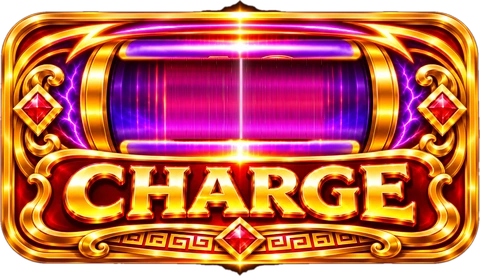
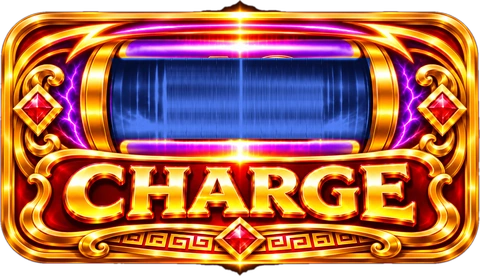
White version: stopped SUPER WILD in front of neighbours; CHARGE screen dark blue; no rings behind letter wins; no lights on the counter boards; TOTAL in the chips' gold lettering, bigger

Changed region(s): [[0.2188, 0.2029, 0.7812, 0.5217]]

diff --git a/white/src/game.js b/white/src/game.js
@@ -966,7 +966,8 @@
       container: c, masks: [[c, m]], onExit: () => fireCurtain(r),
       make: () => new SymView(c, REEL_CX[r]),
       // white (user 2026-11-13): a stopped SUPER WILD in the top row is lifted over the frame (whole horns); back on the next spin
-      topLift: function (on) { this.views.forEach((v, i) => { const p = on && i === 1 && v.id === "super_wild" ? swTopL : c; if (v.c.parent !== p) p.addChild(v.c); }); },
+      // (user 2026-11-13 "bull should be in front"): any stopped SUPER WILD is raised over its neighbours in the reel
+      topLift: function (on) { this.views.forEach((v, i) => { const sw = on && v.id === "super_wild", p = sw && i === 1 ? swTopL : c; if (v.c.parent !== p || sw) p.addChild(v.c); }); },
       rand: () => { const s = Engine.SYMBOLS; const w = Engine.WEIGHTS; let t = 0; const fw = (k) => w[k] + (k === "charge" || k === "super_wild" ? 0 : 2); for (const k of s) t += fw(k); let x = Math.random() * t; for (const k of s) { x -= fw(k); if (x < 0) return k; } return "J"; } });
   });
   const colQ = [];                                   // white (spec): chips queued to slide in next (colPlan)
@@ -1792,7 +1793,11 @@
     Object.defineProperty(accTxt, "text", { configurable: true, get() { return pd.get.call(this); }, set(v) {
       v = String(v); const hx = v.charAt(0) === "x"; pd.set.call(this, hx ? v.slice(1) : v); accX.visible = hx;
       const dw = this.width / (this.scale.x || 1), xw = hx ? accX.width : 0, gap = hx ? -2 : 0, x0 = -(xw + gap + dw) / 2;
-      accX.position.set(x0 + xw, this.y - 2); this.x = x0 + xw + gap + dw / 2; } }); }   // white: parchment, like the count above it
+      accX.position.set(x0 + xw, this.y - 2); this.x = x0 + xw + gap + dw / 2;
+      if (accBT) { accBT.text = v; accBT.position.set(0, this.y + 2); } } }); }
+  // white (user 2026-11-13: "make the 9 bigger and same font as X"): the TOTAL in the chips' own lettering
+  const accBT = new PIXI.BitmapText("x0", { fontName: "gold_digits", fontSize: 62 }); accBT.anchor.set(0.5); accTxt.parent.addChild(accBT);
+  accTxt.renderable = false; accX.renderable = false;   // white: parchment, like the count above it
   function screenUp(on) {
     gsap.killTweensOf(cscreen);
     if (on) { cscreen.visible = true; cscreen.y = CS_HIDE; accum.visible = true; accum.alpha = 1; accum.scale.set(1); accTxt.text = "x0";
@@ -1947,7 +1952,7 @@
       const q = FX.bezier(from, mid, to, p.t); c.position.set(q.x, q.y);
       if (nEmit(40)) topP.emit({ tex: FX.tex.spark, x: q.x, y: q.y, vx: (Math.random() - 0.5) * 90, vy: (Math.random() - 0.5) * 90, s0: 0.35, s1: 0, life: 0.2, tint: 0xffd700 });
     } });
-    impactAt(to, v);
+    SFX.impact(v >= 10);   // white: no light on the counter board (user 2026-11-13)
     const hitK = Math.min(1, Math.log10(Math.max(2, v)) / 2);          // 2x = 0.15 ... 100x+ = 1
     flashScreen(multTint(v), 0.1 + 0.14 * hitK, 0.3);
     gsap.killTweensOf(plaque.scale);
@@ -2111,7 +2116,7 @@
   function badgeIn() {
     if (accum.visible) return;
     accum.visible = true; accum.scale.set(0);
-    gsap.to(accum.scale, { x: 1, y: 1, duration: 0.25, ease: "back.out(2)" }); ringAt(accum.x, accum.y, 0xffd060, 2.2, 0.3);
+    gsap.to(accum.scale, { x: 1, y: 1, duration: 0.25, ease: "back.out(2)" });   // white: no ring on the board
   }
   const accDraw = throttled(() => { accTxt.text = "x" + Math.round(accShown.v); }, TXT_DT), accShown = { v: 0 };
   function accSet(v, pk, esc) {
@@ -2126,7 +2131,7 @@
     gsap.timeline({ onComplete: () => t.destroy() }).fromTo(t.scale, { x: 0.4, y: 0.4 }, { x: 1.1, y: 1.1, duration: 0.3, ease: "back.out(3)" })
       .to(t, { x: to.x, y: to.y, alpha: 0.2, duration: 0.45, ease: "power2.in", delay: 0.35 })
       .to(t.scale, { x: 0.5, y: 0.5, duration: 0.45 }, "<");
-    ringAt(to.x, to.y, 0x9be060, 1.6, 0.4); SFX.nudgeActivate();
+    SFX.nudgeActivate();   // white: no ring on the board
   }
   // "CHARGE n" over the column as a Fortune Choice CHARGE starts its run
   function chargeTag(n) {
@@ -2170,7 +2175,7 @@
         await FX.wait(0.08 * f);
         if (f > 0.55) await streakToBadge(v);
         badgeIn(); acc = capAdd(acc, v); accSet(acc, 1.25 + 0.5 * esc, esc);
-        ringAt(accum.x, accum.y, 0xffd060, 1.4 + esc, 0.3); SFX.impact(lastN || v >= 50); SFX.rise(esc);
+        SFX.impact(lastN || v >= 50); SFX.rise(esc);   // white: no ring on the board
         if (lastN || v >= 50) flashScreen(multTint(v), 0.14, 0.3);
       }
       const el = gsap.globalTimeline.time() - t0;
@@ -3358,7 +3363,6 @@
     await FX.tween(t, { x: cntBox.x, y: cntBox.y, alpha: 0.2, duration: 0.45, ease: "power2.in" });
     t.destroy();
     gsap.fromTo(cntBox.scale, { x: 1.6, y: 1.6 }, { x: 1, y: 1, duration: 0.4, ease: "back.out(3)" });
-    ringAt(cntBox.x, cntBox.y, 0x5ff0ff, 0.9, 0.35);
   }
   function onColumnLand(r) {
     SFX.columnStop();

diff --git a/white/index.html b/white/index.html
@@ -46,22 +46,22 @@
 <script src="lib/pixi-filters.js"></script>
 <script src="lib/gsap.min.js"></script>
 <script src="lib/CustomEase.min.js"></script>
-<script src="src/engine.js?b=11131641"></script>
-<script src="src/audio.js?b=11131641"></script>
-<script src="src/sfx.js?b=11131641"></script>
-<script src="src/fx.js?b=11131641"></script>
-<script src="src/vfx.js?b=11131641"></script>
-<script src="src/buy.js?b=11131641"></script>
-<script src="src/segvideo.js?b=11131641"></script>
-<script src="src/gx.js?b=11131641"></script>
-<script src="src/game.js?b=11131641"></script>
-<script src="src/gx_popup.js?b=11131641"></script>
-<script src="src/gx_feature.js?b=11131641"></script>
-<script src="src/gx_picker.js?b=11131641"></script>
-<script src="src/gx_symbols.js?b=11131641"></script>
-<script src="src/gx_intro.js?b=11131641"></script>
-<script src="src/gx_halo.js?b=11131641"></script>
-<script src="src/gx_rays.js?b=11131641"></script>
-<script src="src/gx_fire.js?b=11131641"></script>
+<script src="src/engine.js?b=11131651"></script>
+<script src="src/audio.js?b=11131651"></script>
+<script src="src/sfx.js?b=11131651"></script>
+<script src="src/fx.js?b=11131651"></script>
+<script src="src/vfx.js?b=11131651"></script>
+<script src="src/buy.js?b=11131651"></script>
+<script src="src/segvideo.js?b=11131651"></script>
+<script src="src/gx.js?b=11131651"></script>
+<script src="src/game.js?b=11131651"></script>
+<script src="src/gx_popup.js?b=11131651"></script>
+<script src="src/gx_feature.js?b=11131651"></script>
+<script src="src/gx_picker.js?b=11131651"></script>
+<script src="src/gx_symbols.js?b=11131651"></script>
+<script src="src/gx_intro.js?b=11131651"></script>
+<script src="src/gx_halo.js?b=11131651"></script>
+<script src="src/gx_rays.js?b=11131651"></script>
+<script src="src/gx_fire.js?b=11131651"></script>
 </body>
 </html>

diff --git a/white/src/gx_symbols.js b/white/src/gx_symbols.js
@@ -469,7 +469,7 @@ GX.plugin(function (ctx) {
       A.tw(gsap.to(r.scale, { x: s1, y: s1 * 0.92, duration: life, ease: "power2.out" }));
       A.tw(gsap.to(r, { alpha: 0, duration: life, ease: "power1.in" }));
     });
-    ring(0.4, 1.5, yel(col), 0.6); ring(0.54, 1.9, yel(hi), 0.65);
+    void ring; void yel;   // white (user 2026-11-13: "don't burn the board behind the letters"): no shock rings on letter wins
     A.later(0.4, () => {
       for (let i = 0; i < N(12); i++) {
         const a = rnd(0, TAU), sp = rnd(240, 420);
